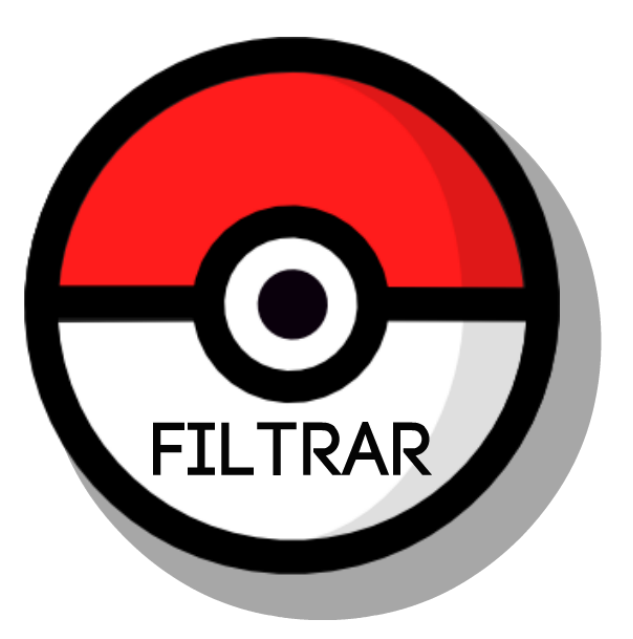
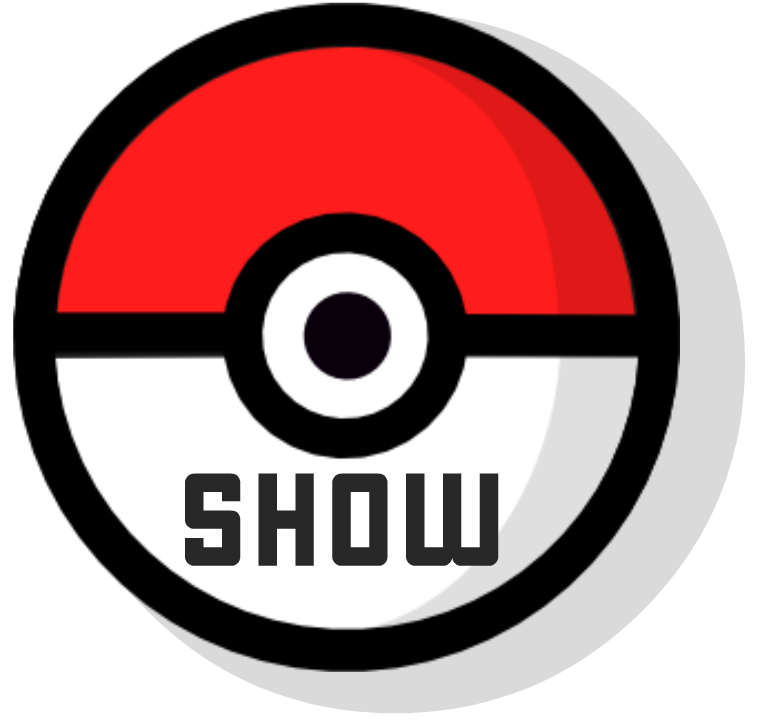
Botones, campos y elementos cambiados al inglés en la interfaz

diff --git a/src/index.html b/src/index.html
@@ -6,10 +6,10 @@
     <title>Data Lovers</title>
     <link rel="stylesheet" href="style.css" />
     <link rel="shortcut icon" type="image/x-icon" href="imagenes/pokeballicon.ico">
-    
+
   </head>
   <body>
-    <div class= container> 
+    <div class= container>
       <!-- Pagina de inicio-->
       <img class="principalLogo" src="imagenes/Pokemonlogo.png" alt="logo">
         <video class="pokemonVideo" controls autoplay muted>
@@ -27,8 +27,8 @@
         <table>
           <thead>
             <tr>
-              <th>Tipo de Pokemon</th>
-              <th>Cantidad de Pokemons</th>
+              <th>Pokemon Type</th>
+              <th>Pokemon Quantity</th>
             </tr>
           </thead>
           <tbody id="pokemonStatistics">
@@ -39,21 +39,21 @@
       <!-- Se agrega seccion de filtrado-->
         <div class="filterOptions" id="filterOptions">
           <ul>
-            <li><h3>Ordenar por:</h3></li>
+            <li><h3>Sort by:</h3></li>
               <li>
                 <select name="orderOptions" id="orderOptions">
                   <option value="id">Id</option>
-                  <option value="name">Nombre</option>
+                  <option value="name">Name</option>
                 </select>
               </li>
               <li>
                 <select name="orderForms" id="orderForms">
-                  <option value="2">Ascendente</option>
-                  <option value="3">Descendente</option>
+                  <option value="2">Ascending</option>
+                  <option value="3">Descending</option>
                 </select>
               </li>
-            <li><h3>TIPO</h3></li>
-            <li><label><input type="checkbox" name="cbox" value="Grass">Todos</label></li>
+            <li><h3>Type:</h3></li>
+            <li><label><input type="checkbox" name="cbox" value="Grass">All</label></li>
             <li><label><input type="checkbox" name="cbox" value="Grass">Grass</label></li>
             <li><label><input type="checkbox" name="cbox" value="Poison">Poison</label></li>
             <li><label><input type="checkbox" name="cbox" value="Fire">Fire</label></li>
@@ -74,7 +74,7 @@
         </div>
         <div class="pokemonListFiltered" id="pokemonListFiltered">
         </div>
-      
+
       <script src="./data/pokemon/pokemon.js"></script>
       <script src="data.js"></script>
       <script src="main.js"></script>

diff --git a/src/style.css b/src/style.css
@@ -56,14 +56,14 @@ body,html  {
   cursor:pointer;
 }
 .pokeBallBtn {
-  width: 75px;
-  height: 75px;
+  width: 72px;
+  height: 72px;
   margin-top: 20px;
   cursor:pointer;
 }
 .pokeBallBtn:hover {
-  width: 80px;
-  height: 80px;
+  width: 78px;
+  height: 78px;
 }
 h3 {
   text-decoration: underline;
